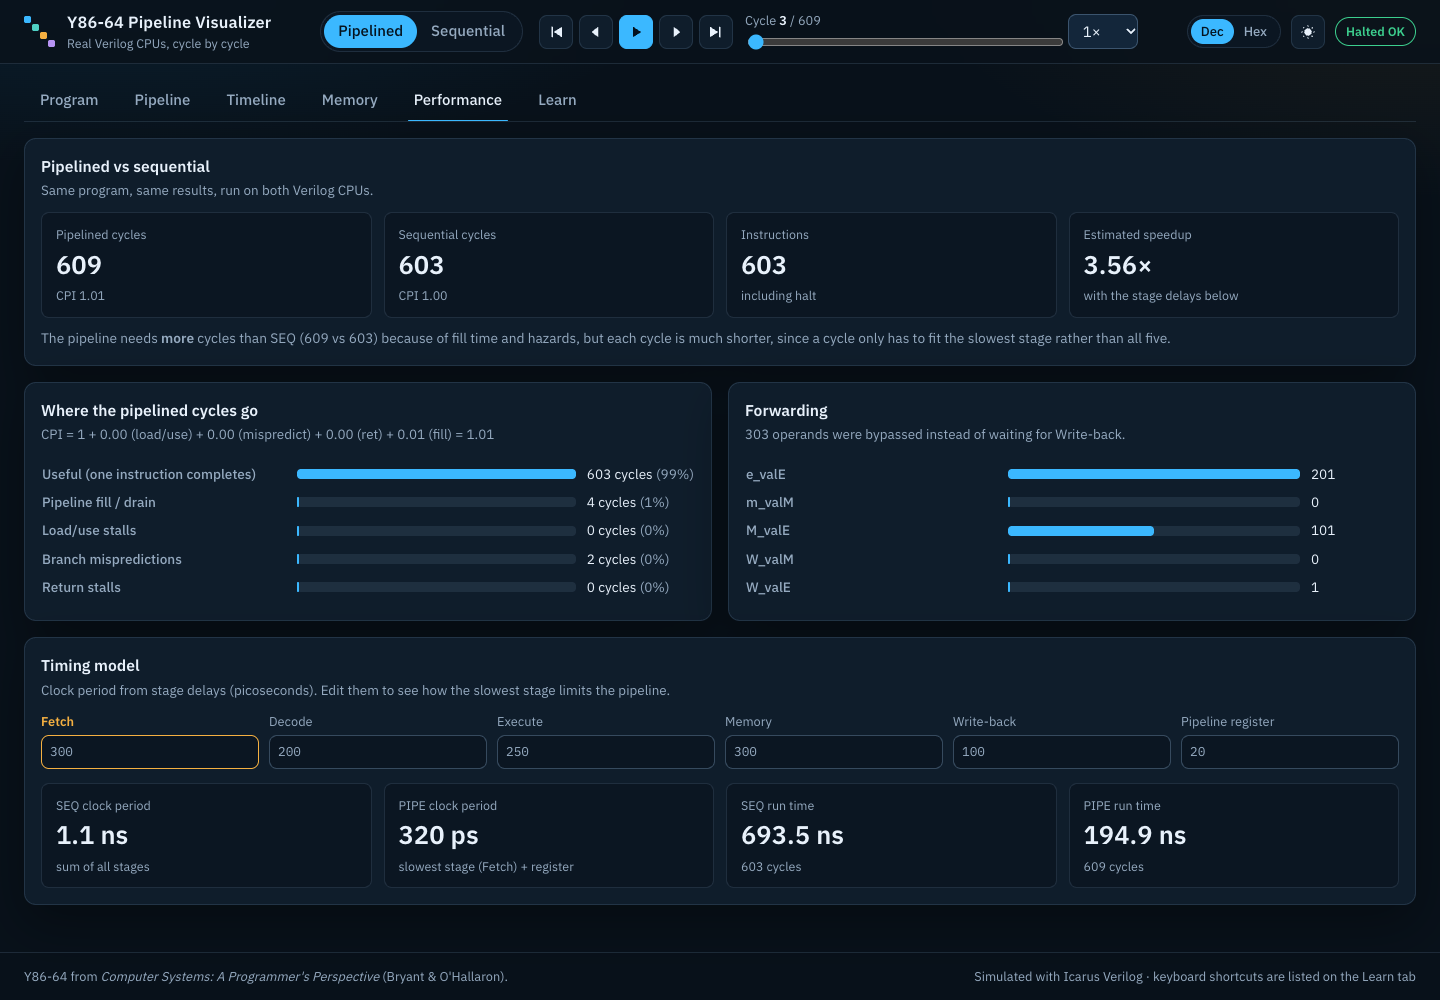
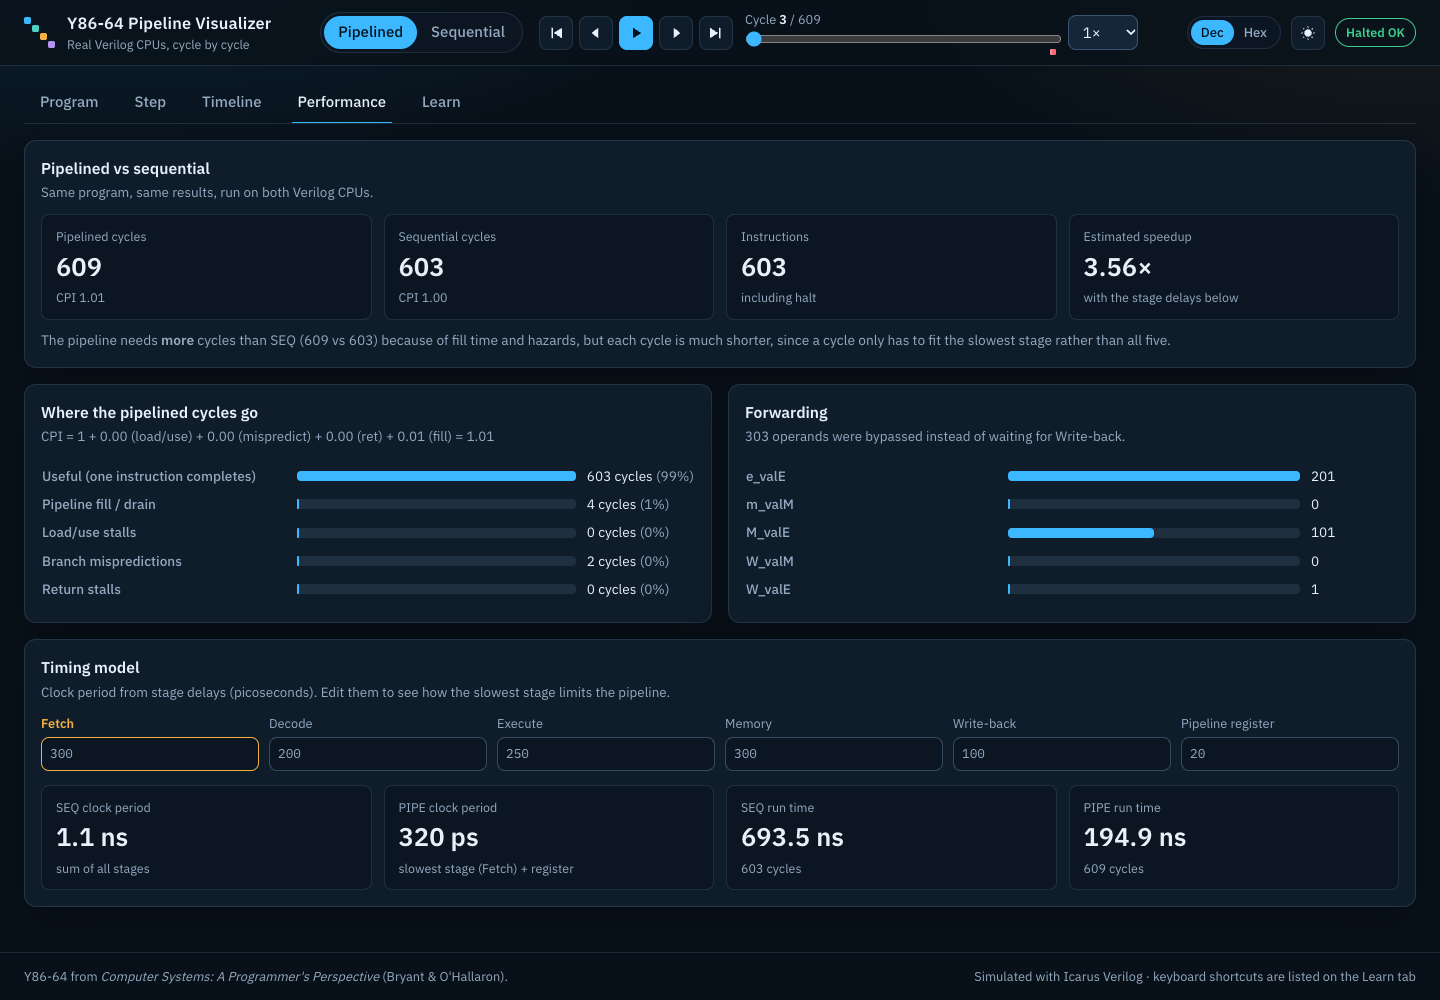
docs: README and Learn tab for the Step workspace, ticks, editor help; refresh screenshots

diff --git a/frontend/src/components/learn/LearnView.jsx b/frontend/src/components/learn/LearnView.jsx
@@ -20,9 +20,10 @@ export default function LearnView() {
       <Panel title="How to use this" className="howto">
         <ol className="howto-steps">
           <li><strong>Program:</strong> pick an example or write your own Y86-64 assembly, then press <em>Assemble &amp; Run</em>. It runs on two real Verilog CPUs (5-stage PIPE and single-cycle SEQ) in Icarus Verilog.</li>
-          <li><strong>Pipeline:</strong> step cycle by cycle. The five cards show which instruction each stage holds and what it computes. The panel below explains every stall, bubble and forward in plain language; <em>Prev/Next</em> jumps between events.</li>
-          <li><strong>Timeline:</strong> the classic staircase diagram. Click any cell to jump there.</li>
-          <li><strong>Memory:</strong> the program bytes with stage markers, and data memory as the program changes it.</li>
+          <li><strong>Step:</strong> everything about one cycle on one screen. The five cards show what each stage holds and computes; arrows between them show whether each instruction advances, is held, or is replaced by a bubble, and curved arcs show values forwarded into Decode. Below: the cycles around this one, a plain-language explanation (dotted words have definitions), the source, and registers or data memory. Hover an instruction anywhere to highlight it everywhere.</li>
+          <li><strong>Finding events:</strong> colored ticks under the cycle slider mark stalls, mispredictions, ret stalls and exceptions; <em>Prev/Next</em> or <kbd>[</kbd> <kbd>]</kbd> jumps between them.</li>
+          <li><strong>Timeline:</strong> the classic staircase diagram for the whole run. Click any cell to jump there.</li>
+          <li><strong>Editor help:</strong> start typing for completions (instructions, <code>%</code> registers, <code>.</code> directives, labels); hover an instruction or label for its meaning or address.</li>
           <li><strong>Performance:</strong> where the cycles went, and why a pipeline wins despite needing more of them.</li>
           <li>Switch between <em>Pipelined</em> and <em>Sequential</em> in the header to compare the two CPUs on the same program.</li>
         </ol>

diff --git a/README.md b/README.md
@@ -4,19 +4,23 @@ Write Y86-64 assembly in the browser, run it on **two real Verilog CPUs** (a 5-s
 
 > Y86-64 is the teaching ISA from *Computer Systems: A Programmer's Perspective* (Bryant & O'Hallaron). The pipelined CPU implements CS:APP's **PIPE** design, and the sequential CPU implements **SEQ**.
 
-![Pipeline view during a load/use stall](docs/screenshots/pipeline.png)
+![Step view during a load/use stall](docs/screenshots/pipeline.png)
 
 ## Features
 
-- **Write and run your own programs.** A CodeMirror editor with Y86 syntax highlighting and a `yas`-compatible assembler (labels, `.pos`, `.align`, `.quad`, `.byte`). Assembler errors are marked on the line where they occur. Ten example programs are included, each built to demonstrate one concept.
+- **Write and run your own programs.** A CodeMirror editor with Y86 syntax highlighting, autocompletion (instructions, registers, directives, labels) and hover docs for each instruction's semantics and each label's address. It uses a `yas`-compatible assembler (labels, `.pos`, `.align`, `.quad`, `.byte`), and assembler errors are marked on the line where they occur. Ten example programs are included, each built to demonstrate one concept.
 - **Real hardware, not a JS imitation.** Each run assembles your program, loads it into the Verilog CPUs under Icarus Verilog, and maps the resulting waveform back into per-cycle state.
 - **Hazards explained.** For every cycle the visualizer says what is happening and why. The text is generated from the CPU's own control signals (`load_use`, `mispredict`, `ret_hazard`, forwarding selectors). Example:
   > *`mrmovq 0(%rbx), %rax` in Execute is loading %rax, but `addq %rax, %rax` in Decode needs it now… Fetch and Decode hold their instructions for one cycle and a bubble is inserted into Execute.*
 
-  **Prev/Next** (or `[` / `]`) jumps between load/use stalls, mispredictions, ret stalls, forwards and exceptions.
-- **Five stage cards.** Each shows the instruction in that stage, its computed values, and where each forwarded operand came from (`e_valE`, `m_valM`, …).
+  Dotted terms (stall, bubble, forwarding…) show their definition on hover or focus. Colored ticks under the cycle slider mark every stall, misprediction, ret stall and exception, and **Prev/Next** (or `[` / `]`) jumps between them.
+- **One Step workspace.**
+  - The five stage cards show what each stage holds and computes.
+  - Connectors between the cards show whether each instruction advances, is held, or is replaced by a bubble at the next clock edge.
+  - Arcs draw each value forwarded into Decode (`e_valE`, `m_valM`, …), or the blocked load/use path.
+  - Below the cards: a mini-timeline of the surrounding cycles, the explanation, the stage-tagged source, and a Registers / Data memory inspector.
+  - Hovering an instruction highlights it in every view.
 - **Pipeline timeline.** The classic staircase diagram across the whole run. Stalls show as held cells and squashed wrong-path instructions are struck through. Click any cell to jump to that cycle.
-- **Memory.** The program bytes are shown with stage markers. Data memory shows labels, the `%rsp` pointer, and each word's last writer as the program runs.
 - **Performance.** Compare pipelined vs sequential cycle counts, see a CPI breakdown (`1 + load/use + mispredict + ret + fill`) and forwarding statistics, and edit the stage delays in a timing model to see why the pipeline wins despite needing more cycles.
 - **Learn tab.** What each instruction does in each stage (after CS:APP Figs. 4.18–4.21), a glossary, and keyboard shortcuts.
 - **Interface.** Light and dark themes (following the OS by default), keyboard navigation, screen-reader labels, reduced-motion support, and a mobile layout.
